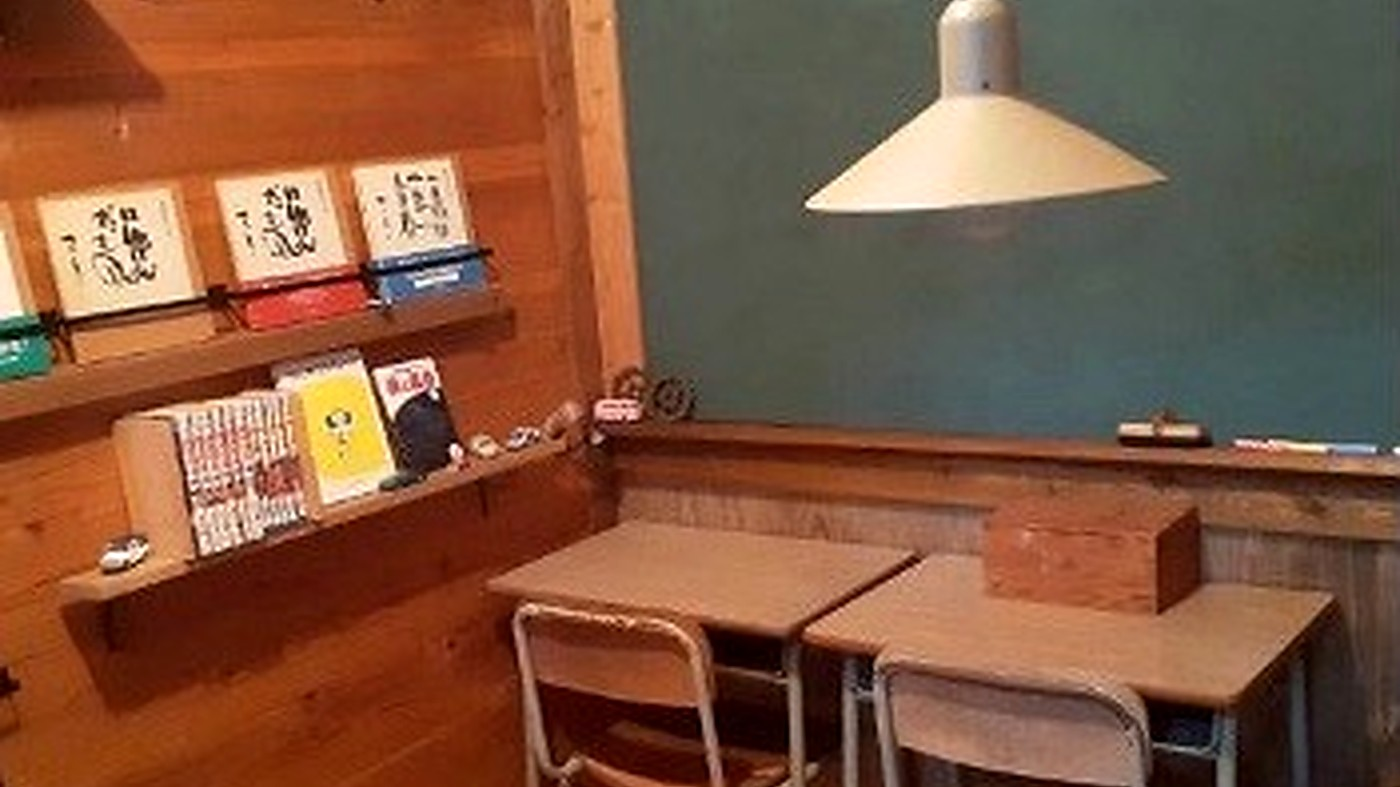
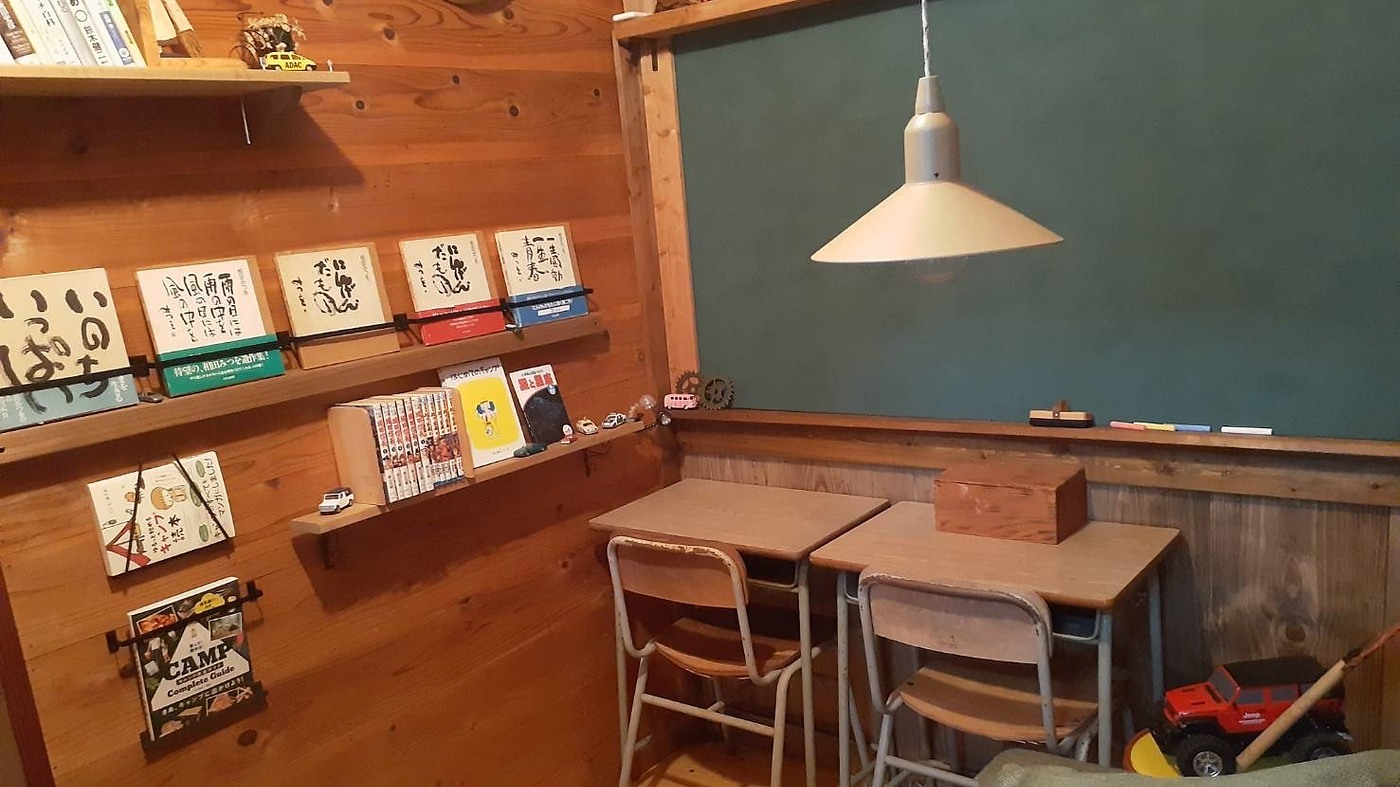
Replace LINE crops with client HQ hall and desks photos.
Use hq-hall-tidied for facility-overview and hq-desks-chalkboard for slideshow slide-05.

diff --git a/detekoi-land-mockup/assets/README.md b/detekoi-land-mockup/assets/README.md
@@ -9,12 +9,12 @@ Active folder: `photos/`. Drop-in inbox: `REPLACE_PHOTOS_HERE/` (same filenames)
 | 玄関 | `16-porch-detekoi.jpg` | client genkan `c59a51b4` |
 | 円卓 strip | `04-facility-interior.jpg` | Drive `IMG_2302.JPG` |
 | Stay slideshow | `photos/slides/slide-01…10.jpg` | Drive + client facility set |
-| Stay slide 05 | `slides/slide-05-desks.jpg` | LINE crop (desks/chalkboard; no Drive HQ found) |
+| Stay slide 05 | `slides/slide-05-desks.jpg` | client HQ `hq-desks-chalkboard.jpg` |
 | Bath | `07-bath.jpg` | client `5915bd4f` |
 | Washitsu | `06-guest-room.jpg` | client `a663b795` |
 | Toys | `08-toys.jpg` | client `cf8bd529` |
 | BBQ | `09-campfire.jpg` | Drive `DSCF9590` |
 | Totoro (experience) | `13-totoro-rocks.jpg` | client `0c3fdd68` (kept; not the overlapping slideshow slot) |
 | Caricature | `17-director-illust.jpg` | Studio CDN (kept) |
-| Facility overview | `facility-overview.jpg` | LINE crop (tidied hall; replaces Drive `DSCF9552.JPG`) |
+| Facility overview | `facility-overview.jpg` | client HQ `hq-hall-tidied.jpg` |
 | ABOUT outdoor | `16-porch-detekoi.jpg` | Drive `DSCF9507.JPG` |
